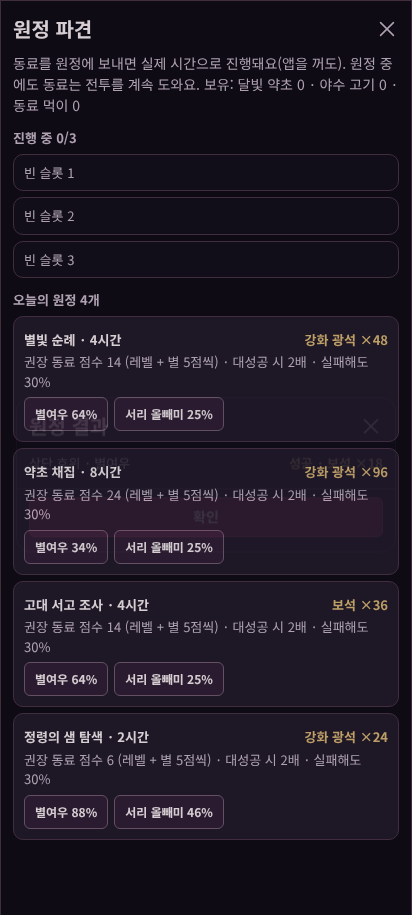
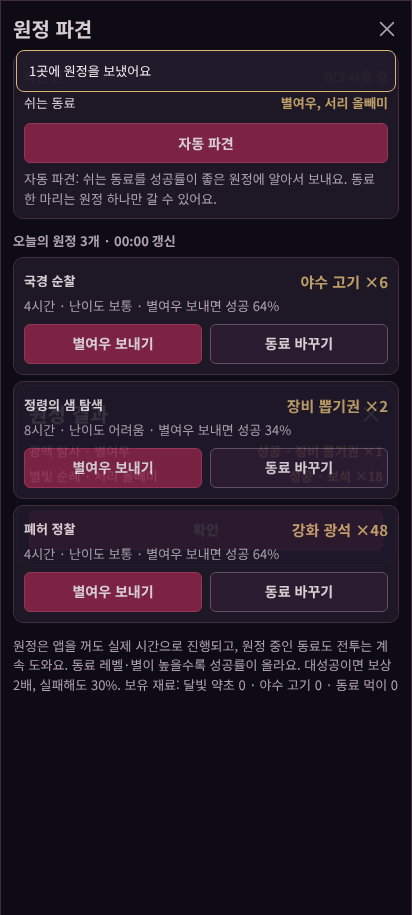
UX: 원정 파견 simplified — 자동 파견 + 보상 받기 up top, one-tap send with the best free companion, progress bars, plain-language reasons for disabled buttons
Claude-Session: https://claude.ai/code/session_01U4aB6EAc9QsejWystJKhx1

diff --git a/src/ui/v8.js b/src/ui/v8.js
@@ -128,34 +128,61 @@ export function expeditionCard(app) {
 
 export function openExpedition(app) {
   let timer = null;
+  let pickFor = null;   // expedition id whose "동료 바꾸기" list is open
   const m = openModal({ id: 'expedition', title: '원정 파견', body: h('div'), kind: 'full', onClose: () => clearInterval(timer) });
+  const diff = (x) => (x.hours <= 2 ? '쉬움' : x.hours <= 4 ? '보통' : '어려움');
   const render = () => {
     const s = app.state;
     const now = Date.now();
     const e = EX.refreshExpedition(s, now);
     const busy = EX.busyPets(s);
     const pets = Object.keys(s.pets.owned);
-    const freeSlot = e.slots.some((x) => !x);
-    const slotRows = e.slots.map((x, i) => x
-      ? h('div', { class: 'mp-row' },
-        h('div', { class: 'mp-name' }, h('b', null, `${x.exp.name} · ${x.exp.hours}시간`), h('span', { class: 'muted small' }, `${EX.petName(x.pet)} · ${rwTxt(x.exp.type, x.exp.amount)} · 성공 ${Math.round(x.chance * 100)}%`),
-          now < x.endAt ? h('span', { class: 'small', dataset: { end: x.endAt } }, `남은 시간 ${hm(x.endAt - now)}`) : h('span', { class: 'okc small' }, '완료')),
-        button(now < x.endAt ? '진행 중' : '받기', { cls: 'btn' + (now < x.endAt ? '' : ' btn-primary'), disabled: now < x.endAt, busy: true, onClick: async () => { const r = fail(await app.game.claimExpedition(i)); if (r.ok) { showExpResults(app, [r]); render(); } } }))
-      : h('div', { class: 'mp-row muted' }, h('div', { class: 'mp-name' }, h('span', null, `빈 슬롯 ${i + 1}`))));
-    const board = e.board.map((x) => h('div', { class: 'card exp-card' },
-      h('div', { class: 'kv' }, h('b', { style: { color: 'var(--text)' } }, `${x.name} · ${x.hours}시간`), h('b', null, rwTxt(x.type, x.amount))),
-      h('div', { class: 'muted small' }, `권장 동료 점수 ${x.req} (레벨 + 별 5점씩) · 대성공 시 2배 · 실패해도 30%`),
-      h('div', { class: 'exp-pets' }, pets.map((pid) => {
-        const ch = EX.successChance(s, pid, x);
-        return button(`${PETS[pid].name} ${Math.round(ch.success * 100)}%`, { cls: 'btn small-btn', disabled: busy.has(pid) || !freeSlot, busy: true, ariaLabel: `${PETS[pid].name} 보내기, 성공 ${Math.round(ch.success * 100)}%`,
-          onClick: async () => { const r = fail(await app.game.sendExpedition(x.id, pid)); if (r.ok) render(); } });
-      }))));
+    const freePets = pets.filter((p) => !busy.has(p));
+    const freeSlots = e.slots.filter((x) => !x).length;
     const ready = EX.readyCount(s, now);
+    const running = e.slots.map((x, i) => [x, i]).filter(([x]) => x);
+    const canAuto = freeSlots > 0 && freePets.length > 0 && e.board.length > 0;
+    // 1) 한눈에: 칸 · 쉬는 동료 · 큰 버튼 두 개
+    const top = h('div', { class: 'card exp-top' },
+      h('div', { class: 'kv' }, '파견 칸', h('b', null, `${running.length}/${EX.EXPEDITION.slots} 사용 중`)),
+      h('div', { class: 'kv' }, '쉬는 동료', h('b', null, freePets.length ? freePets.map(EX.petName).join(', ') : '없음 (모두 원정 중)')),
+      h('div', { class: 'btn-row' },
+        ready ? button(`보상 받기 (${ready})`, { cls: 'btn btn-primary', busy: true, onClick: async () => { const r = fail(await app.game.claimAllExpeditions()); if (r.ok) { showExpResults(app, r.results); render(); } } }) : null,
+        button(canAuto ? '자동 파견' : freePets.length ? (freeSlots ? '보낼 원정 없음' : '파견 칸이 가득 참') : '쉬는 동료 없음', { cls: 'btn' + (ready ? '' : ' btn-primary'), disabled: !canAuto, busy: true,
+          onClick: async () => { const r = fail(await app.game.sendExpeditionAuto()); if (r.ok) { toast(`${r.sent.length}곳에 원정을 보냈어요`, 'good'); render(); } } })),
+      h('p', { class: 'muted small', style: { margin: '6px 0 0' } }, '자동 파견: 쉬는 동료를 성공률이 좋은 원정에 알아서 보내요. 동료 한 마리는 원정 하나만 갈 수 있어요.'));
+    // 2) 진행 중 (진행 막대)
+    const runRows = running.map(([x, i]) => {
+      const done = now >= x.endAt, p = Math.min(1, (now - x.startAt) / (x.endAt - x.startAt));
+      return h('div', { class: 'card exp-run' },
+        h('div', { class: 'kv' }, h('b', { style: { color: 'var(--text)' } }, `${x.exp.name}`), h('b', null, rwTxt(x.exp.type, x.exp.amount))),
+        h('div', { class: 'muted small' }, `${EX.petName(x.pet)} · 성공 ${Math.round(x.chance * 100)}%`),
+        h('div', { class: 'exp-bar' }, h('i', { style: { width: Math.round(p * 100) + '%' } })),
+        done ? button('받기', { cls: 'btn btn-primary', busy: true, onClick: async () => { const r = fail(await app.game.claimExpedition(i)); if (r.ok) { showExpResults(app, [r]); render(); } } })
+          : h('div', { class: 'small', dataset: { end: x.endAt } }, `남은 시간 ${hm(x.endAt - now)}`));
+    });
+    // 3) 오늘의 원정: 보상 크게, 버튼 하나 (가장 성공률 높은 쉬는 동료가 감)
+    const board = e.board.map((x) => {
+      const best = EX.bestPetFor(s, x, busy);
+      const why = !freeSlots ? '파견 칸이 가득 참' : !best ? '쉬는 동료 없음' : null;
+      const send = async (pid) => { const r = fail(await app.game.sendExpedition(x.id, pid)); if (r.ok) { pickFor = null; render(); } };
+      return h('div', { class: 'card exp-card' },
+        h('div', { class: 'kv' }, h('b', { style: { color: 'var(--text)' } }, `${x.name}`), h('b', { class: 'exp-reward' }, rwTxt(x.type, x.amount))),
+        h('div', { class: 'muted small' }, `${x.hours}시간 · 난이도 ${diff(x)}${best ? ` · ${EX.petName(best.pet)} 보내면 성공 ${Math.round(best.chance * 100)}%` : ''}`),
+        h('div', { class: 'btn-row' },
+          button(why || `${best ? EX.petName(best.pet) : ''} 보내기`, { cls: 'btn btn-primary', disabled: !!why, busy: true, onClick: () => send(best.pet) }),
+          freePets.length > 1 && !why ? button(pickFor === x.id ? '닫기' : '동료 바꾸기', { cls: 'btn', onClick: () => { pickFor = pickFor === x.id ? null : x.id; render(); } }) : null),
+        pickFor === x.id ? h('div', { class: 'exp-pets' }, freePets.map((pid) => {
+          const ch = EX.successChance(s, pid, x).success;
+          return button(`${EX.petName(pid)} · 성공 ${Math.round(ch * 100)}%`, { cls: 'btn small-btn', busy: true, onClick: () => send(pid) });
+        })) : null);
+    });
     m.setBody(h('div', { dataset: { screen: 'expeditionList' } },
-      h('p', { class: 'modal-desc' }, `동료를 원정에 보내면 실제 시간으로 진행돼요(앱을 꺼도). 원정 중에도 동료는 전투를 계속 도와요. 보유: 달빛 약초 ${s.craft.herb} · 야수 고기 ${s.craft.meat} · 동료 먹이 ${s.pets.food}`),
-      h('div', { class: 'section-title' }, `진행 중 ${e.slots.filter(Boolean).length}/${EX.EXPEDITION.slots}`), slotRows,
-      ready > 1 ? button(`모두 받기 (${ready})`, { cls: 'btn btn-primary', busy: true, onClick: async () => { const r = fail(await app.game.claimAllExpeditions()); if (r.ok) { showExpResults(app, r.results); render(); } } }) : null,
-      h('div', { class: 'section-title' }, `오늘의 원정 ${e.board.length}개`), board.length ? board : h('p', { class: 'muted' }, '오늘 원정을 모두 보냈어요. 00:00(KST)에 새 목록이 와요.')));
+      top,
+      running.length ? h('div', { class: 'section-title' }, '진행 중') : null, ...runRows,
+      h('div', { class: 'section-title' }, `오늘의 원정 ${e.board.length}개 · 00:00 갱신`),
+      board.length ? board : h('p', { class: 'muted' }, '오늘 원정을 모두 보냈어요. 00:00(KST)에 새 목록이 와요.'),
+      h('p', { class: 'muted small' }, `원정은 앱을 꺼도 실제 시간으로 진행되고, 원정 중인 동료도 전투는 계속 도와요. 동료 레벨·별이 높을수록 성공률이 올라요. 대성공이면 보상 2배, 실패해도 30%. 보유 재료: 달빛 약초 ${s.craft.herb} · 야수 고기 ${s.craft.meat} · 동료 먹이 ${s.pets.food}`)));
   };
   render();
   timer = setInterval(() => {

diff --git a/src/core/expedition.js b/src/core/expedition.js
@@ -59,6 +59,44 @@ export function successChance(state, petId, exp) {
   return { success: Math.max(C.min, Math.min(C.max, C.base + C.perPoint * diff)), great: Math.max(0, Math.min(EXPEDITION.great.max, EXPEDITION.great.perPoint * diff)) };
 }
 
+// 자동 파견 / 추천: best free companion for an expedition (highest success), and a greedy plan
+// that fills free slots — each free companion (strongest first) takes the expedition with the
+// best expected value (success × hours) among those it clears at ≥ 60 %, else its safest one.
+export function bestPetFor(state, exp, exclude = new Set()) {
+  let best = null;
+  for (const pid of Object.keys(state.pets.owned || {})) {
+    if (exclude.has(pid)) continue;
+    const ch = successChance(state, pid, exp).success;
+    if (!best || ch > best.chance) best = { pet: pid, chance: ch };
+  }
+  return best;
+}
+export function autoPlan(state, now) {
+  const e = refreshExpedition(state, now);
+  const taken = new Set(busyPets(state));
+  let free = e.slots.filter((x) => !x).length;
+  const board = e.board.slice();
+  const pets = Object.keys(state.pets.owned || {}).filter((p) => !taken.has(p)).sort((a, b) => petScore(state, b) - petScore(state, a));
+  const plan = [];
+  for (const pid of pets) {
+    if (!free || !board.length) break;
+    const opts = board.map((x) => ({ x, c: successChance(state, pid, x).success }));
+    const good = opts.filter((o) => o.c >= 0.6);
+    const pick = (good.length ? good.sort((a, b) => b.c * b.x.hours - a.c * a.x.hours) : opts.sort((a, b) => b.c - a.c))[0];
+    plan.push({ expId: pick.x.id, petId: pid });
+    board.splice(board.indexOf(pick.x), 1);
+    free--;
+  }
+  return plan;
+}
+export function sendAuto(state, now) {
+  const plan = autoPlan(state, now);
+  if (!plan.length) return { ok: false, reason: busyPets(state).size >= Object.keys(state.pets.owned || {}).length ? 'no-pet' : 'slots' };
+  const sent = [];
+  for (const p of plan) { const r = send(state, p.expId, p.petId, now); if (r.ok) sent.push(p); }
+  return { ok: sent.length > 0, sent };
+}
+
 export const busyPets = (state) => new Set((state.expedition ? state.expedition.slots : []).filter(Boolean).map((x) => x.pet));
 
 export function send(state, expId, petId, now) {

diff --git a/styles/app.css b/styles/app.css
@@ -576,3 +576,10 @@ input.text { width: 100%; min-height: 36px; background: var(--panel); border: 1p
 .jewel-ruby { color: #E2566B; } .jewel-sapphire { color: #5C8DF0; } .jewel-emerald { color: #3FBF7F; }
 .jewel-topaz { color: #E0A93A; } .jewel-amethyst { color: #A877E8; }
 [data-screen="workshop"] .seg { margin-bottom: 10px; }
+/* 원정 파견 (쉬운 조작) */
+.exp-top .btn-row { margin-top: 8px; }
+.exp-run .exp-bar { height: 6px; border-radius: 3px; background: rgba(255,255,255,.08); margin: 6px 0; overflow: hidden; }
+.exp-run .exp-bar i { display: block; height: 100%; background: var(--gold); }
+.exp-card .exp-reward { color: var(--gold); font-size: 15px; }
+.exp-card .btn-row { margin-top: 8px; }
+.exp-pets { display: flex; flex-wrap: wrap; gap: 6px; margin-top: 8px; }

diff --git a/src/core/game.js b/src/core/game.js
@@ -223,6 +223,7 @@ export class Game {
   cookFood(id) { return this.transact('cook', (s) => craft.cook(s, id, this.now())); }
   // ---------- 원정 파견 ----------
   sendExpedition(expId, petId) { return this.transact('expSend', (s) => expedition.send(s, expId, petId, this.now())); }
+  sendExpeditionAuto() { return this.transact('expSend', (s) => expedition.sendAuto(s, this.now())); }
   claimExpedition(slot) { return this.transact('expClaim', (s) => expedition.claim(s, slot, this.now())); }
   claimAllExpeditions() { return this.transact('expClaim', (s) => expedition.claimAll(s, this.now())); }
   claimMplusVault() { return this.transact('mplusVault', (s) => mplus.claimVault(s, this.now())); }
